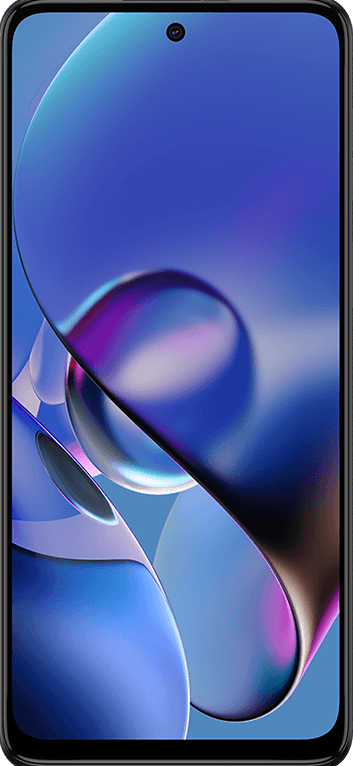
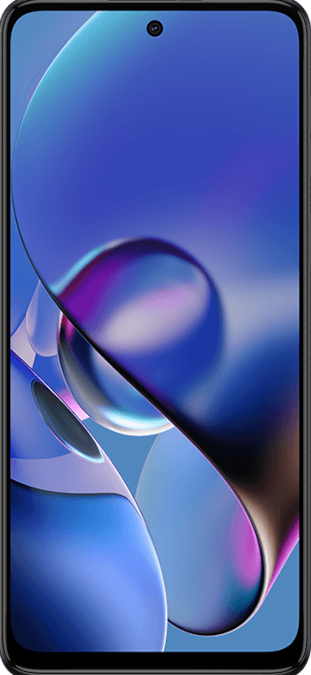
Atualizei tamanho do telefone

diff --git a/estilos/style.css b/estilos/style.css
@@ -36,11 +36,11 @@ section#telefone {
 
 iframe#tela {
     position: relative;
-    top: 12.3px;
+    top: 10px;
     left: 11px;
-    width: 331px;
-    height: 727px;
-    border-radius: 35px;
+    width: 290px;
+    height: 645px;
+    border-radius: 25px;
 }
 
 section#redes-sociais {
